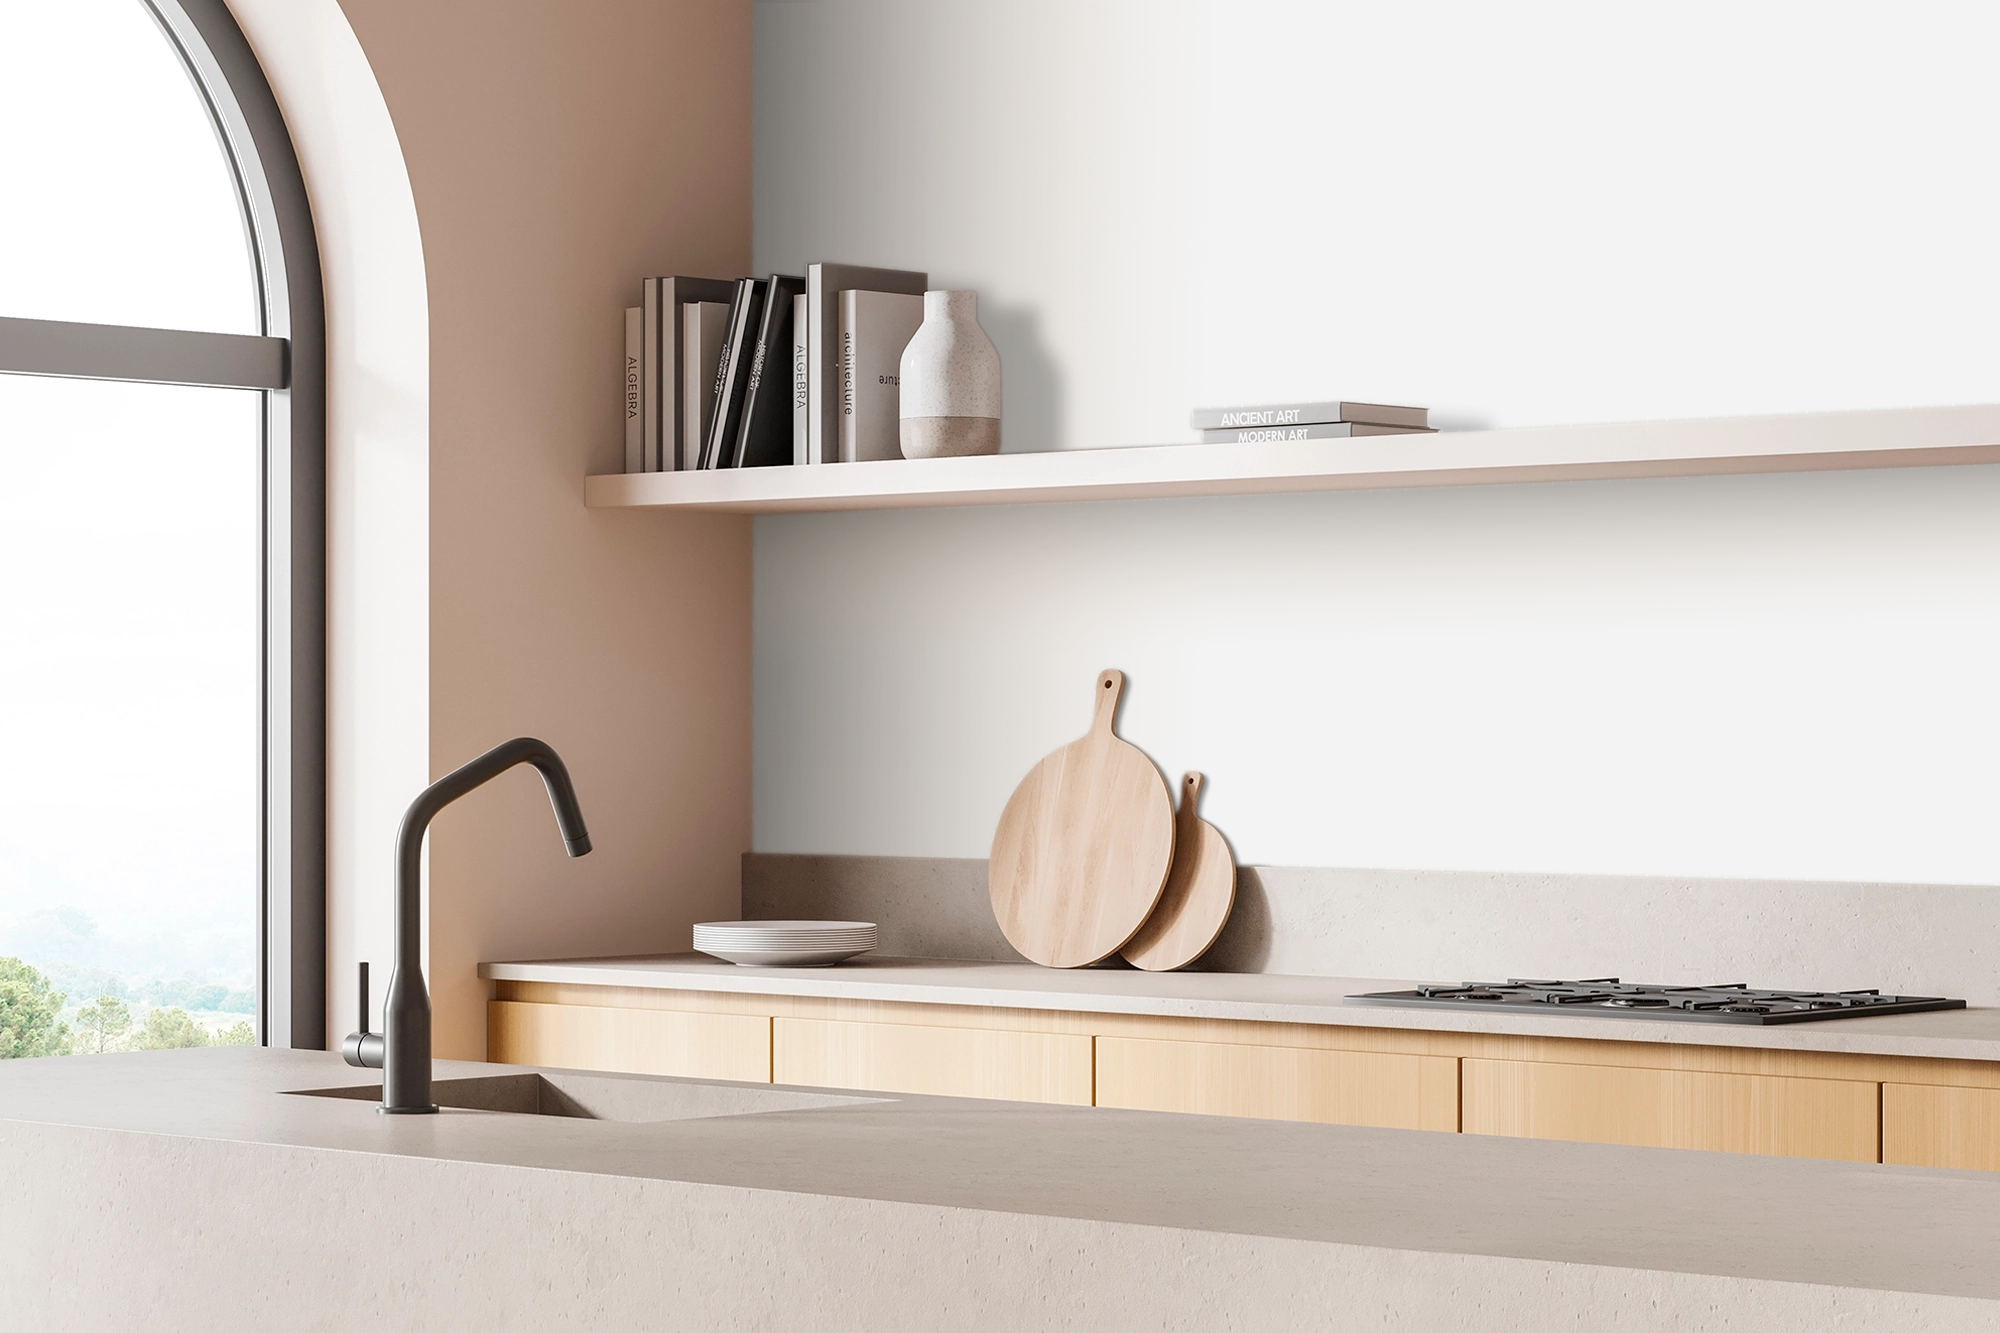
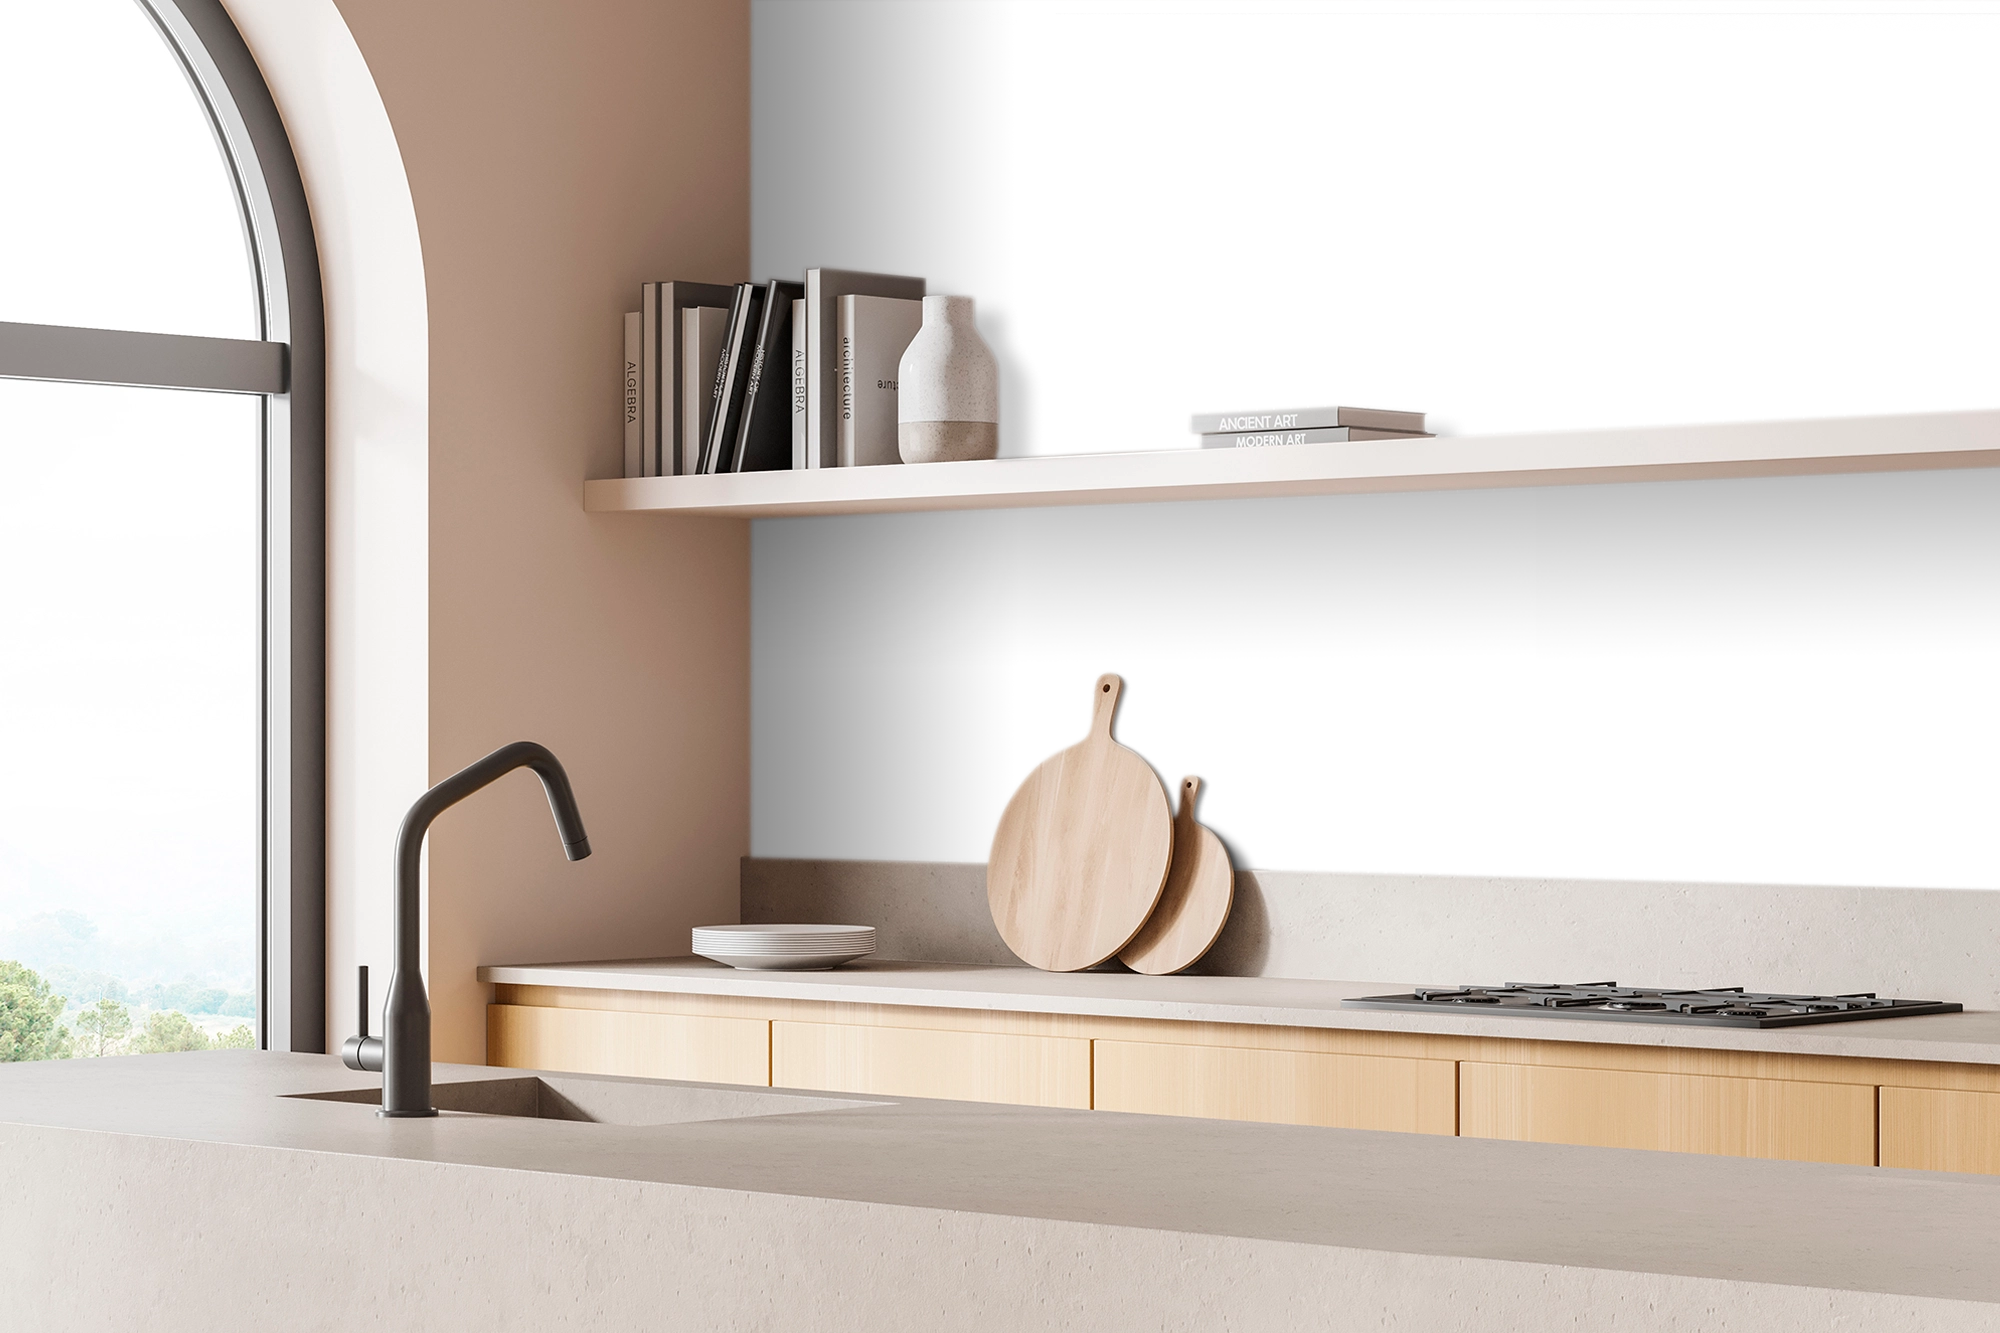
Subtle changes in cocina arco

diff --git a/src/data/spaces.ts b/src/data/spaces.ts
@@ -101,9 +101,9 @@ export const SPACE_PRESETS: SpacePreset[] = [
       originX: '36.7%',
       originY: '60%',
       scaleX: 1.1,
-      scaleY: 0.99,
+      scaleY: 1,
       offsetX: 0,
-      offsetY: -6
+      offsetY: -5.5
     }
   },
   {
